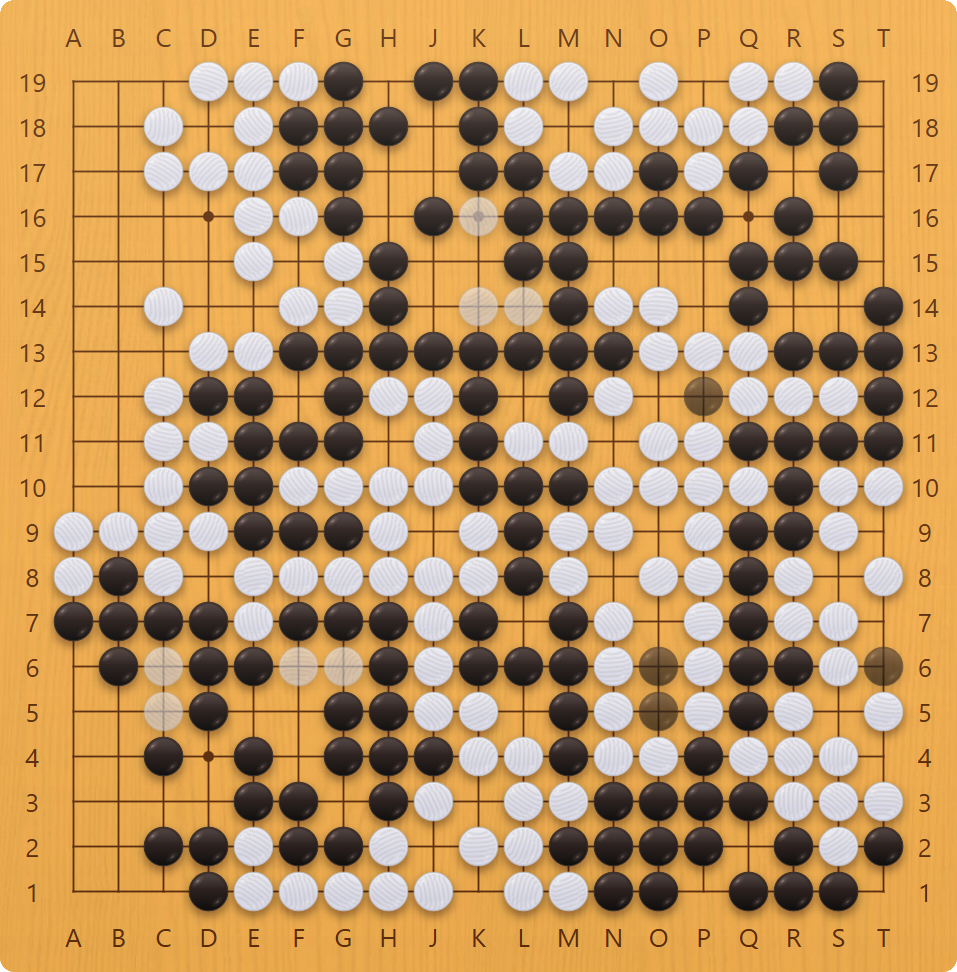
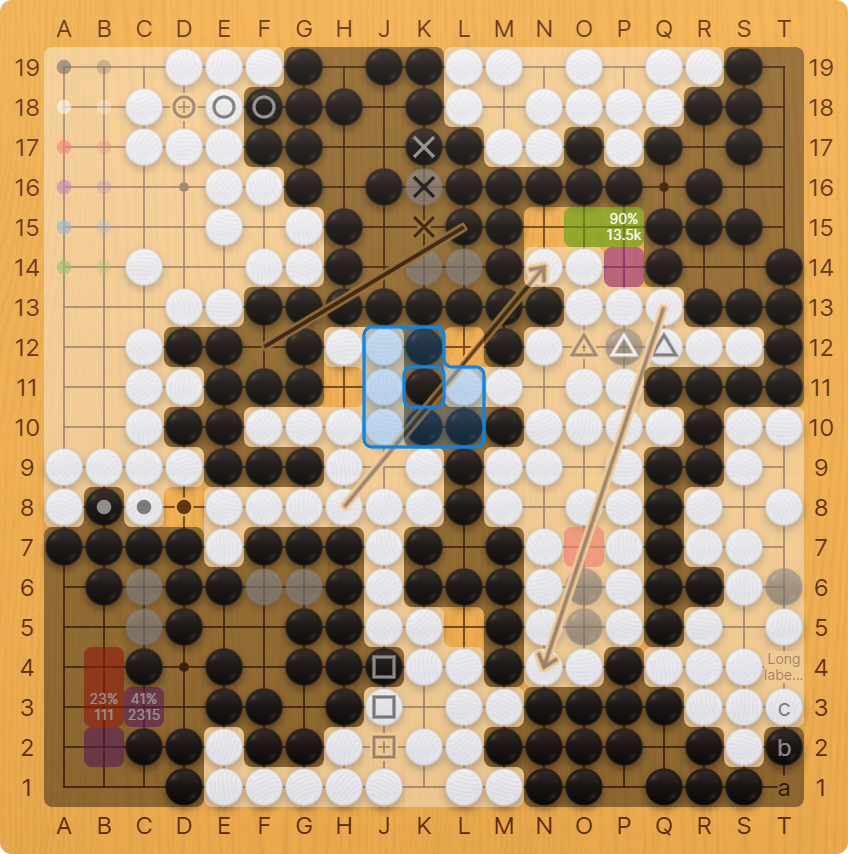
Update README

diff --git a/README.md b/README.md
@@ -2,4 +2,13 @@
 
 A highly customizable, low-level Goban web component.
 
-![Screenshot](./screenshot.png)
+<img src="./screenshot.png" alt="Screenshot" width="600" />
+
+## Features
+
+- 📐 Resizable
+- ⌨️ Keyboard accessibility
+- 🔠 Board coordinates
+- 🎛️ Easy customization
+- 🧱 Flexible layer system
+- 🧩 Partial board support